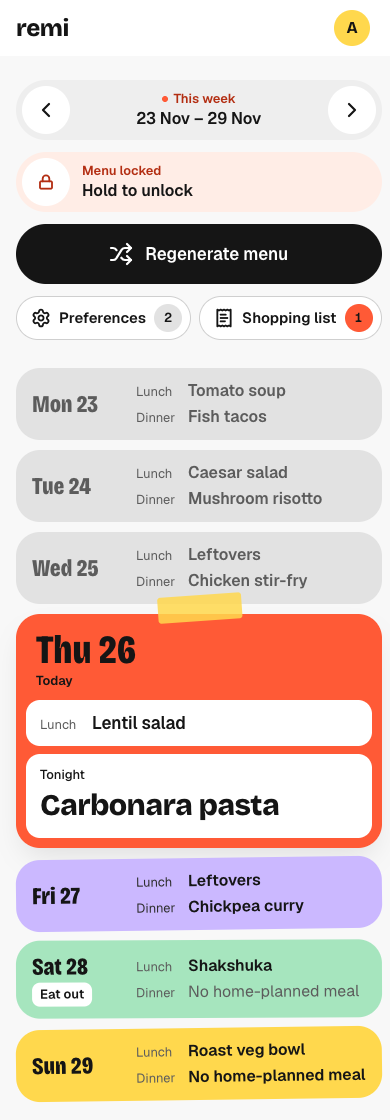
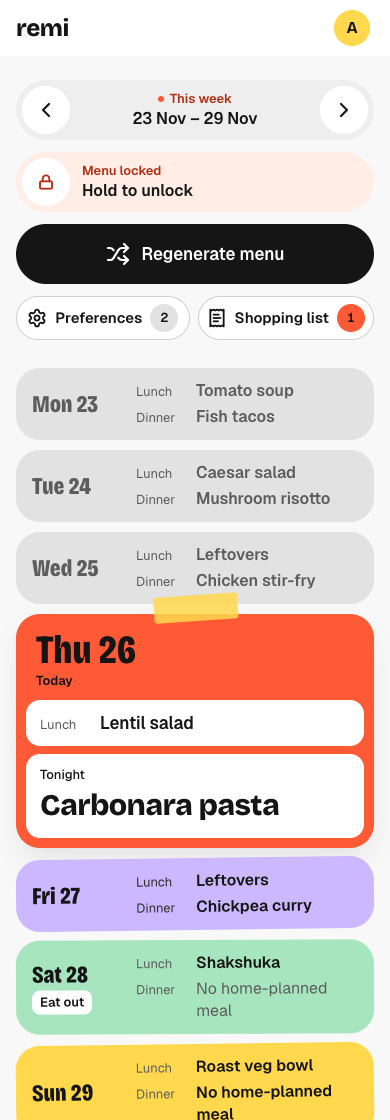
fix(planner): keep the Spanish planner inside a phone screen
The long lock label widened the controls row and the tools row did not wrap,
so /es scrolled sideways at 390px. The phone slot label column also grows so
"Comida" no longer touches the dish.

diff --git a/frontend/src/features/weekly-menu/pages/weekly-menu-planner.css b/frontend/src/features/weekly-menu/pages/weekly-menu-planner.css
@@ -8,6 +8,8 @@
      sit at the end and wrap under it when the labels do not fit. */
   .planner-controls {
     display: grid;
+    /* A long label wraps instead of widening the row past the screen. */
+    grid-template-columns: minmax(0, 1fr);
     gap: var(--spacing-3);
     margin-block-end: var(--spacing-8);
   }
@@ -83,6 +85,7 @@
 
   .planner-tools {
     display: flex;
+    flex-wrap: wrap;
     align-items: center;
     gap: var(--spacing-2);
   }
@@ -148,6 +151,12 @@
   @media (max-width: 39.999rem) {
     .planner-controls {
       margin-block-end: var(--spacing-3);
+    }
+
+    /* Tighter, so both tools still share a row at 390. */
+    .planner-tools .button {
+      --button-pad: var(--spacing-3);
+      --button-pad-icon: var(--spacing-2);
     }
 
     .planner-day-grid {

diff --git a/frontend/src/features/weekly-menu/components/day-card.css b/frontend/src/features/weekly-menu/components/day-card.css
@@ -336,8 +336,6 @@
       gap: var(--spacing-1);
     }
 
-    .day-card-upcoming .meal-slot,
-    .day-card-past .meal-slot,
     .day-card-upcoming .day-card-paper .meal-slot,
     .day-card-past .day-card-paper .meal-slot {
       padding: 0;
@@ -358,7 +356,8 @@
     .day-card-past .meal-label,
     .day-card-today .meal-slot:not([data-tonight]) .meal-label {
       flex-shrink: 0;
-      inline-size: 2.75rem;
+      /* Paper uses 44, which "Comida" overruns. */
+      inline-size: 3.25rem;
     }
 
     .day-card-upcoming .day-name,

diff --git a/frontend/src/features/weekly-menu/components/DayCard.tsx b/frontend/src/features/weekly-menu/components/DayCard.tsx
@@ -120,7 +120,7 @@ function MealSlotDisplay({
   const { t } = useI18n()
   const home = meal.kind === 'recipe' || meal.kind === 'unplanned'
   const name = meal.kind === 'recipe' ? meal.name : t('meal.unplannedName')
-  // Today's dinner is the one headline slot on the board.
+  // Today's dinner is the one lifted slot on the board.
   const tonight = timing === 'today' && slot === 'dinner' && home
   const swapLabel = t('planner.swapSlot', {
     day: dayName,
